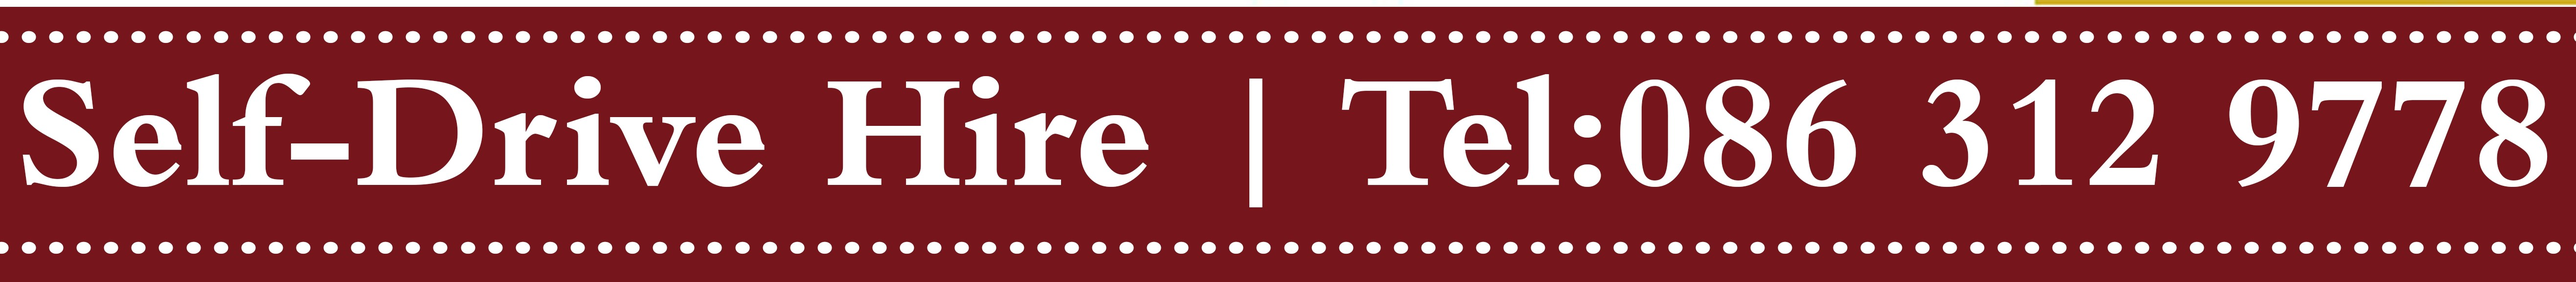
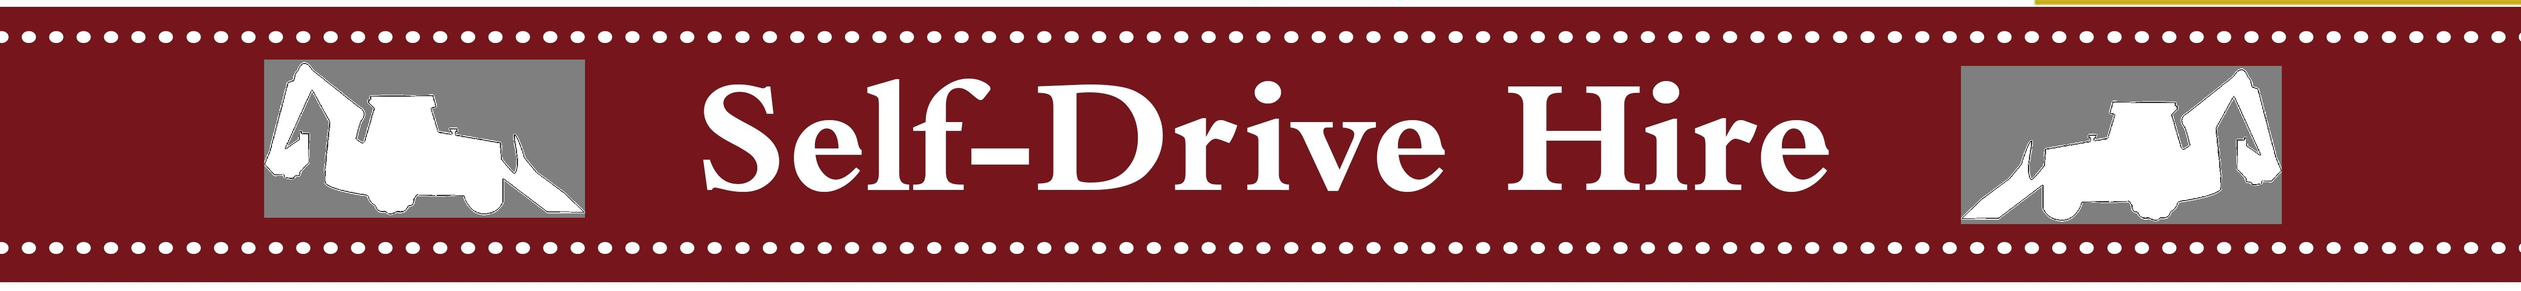
The final Commit

diff --git a/index.html b/index.html
@@ -43,8 +43,8 @@
             
             <section class="mainSection">
                 <img src="Images/oldLogo.jpg" alt="digger.jpg" class="left">
-                <p>
-                    Plant Plus Ltd. is a medium plant hire company, based in the West of Ireland but services the whole island. With several machines that can be hired, there's a machine for everything. From teleporters, to diggers, there's a machine for nearly every kind of job.
+                <p id="mainText">
+                    We provide self-drive hire for the construction industry. We stock a wide range of equipment for hire from <a href="equipment.html" class="equipmentLink">mini diggers</a> to <a href="equipment.html" class="equipmentLink">large excavators</a>, a full range of <a href="equipment.html" class="equpmentLink">dumpers</a> both swivel and straight tip, a range of vibrating <a href="equipment.html" class="equipmentLink">rollers</a> and also <a href="equipment.html" class="equipmentLink">teleporters</a>, up to 17m reach. We also provide a transportation service so it matters not where the job is, we can deliver the required equipment to site for you.
                 </p>
             </section>
             

diff --git a/about.html b/about.html
@@ -48,9 +48,8 @@
             </aside>
             
             <article class="aboutUs">
-                <img src="Images/HeadShot.jpg" alt="HeadShot.jpg" class="head">
-                <p style= "column-count: 3; column-rule: 1px double black; font-size: 20px;">
-                    This is a family run business, which was founded in 2005. The business focuses on plant hire and also contractual repair. The owner, Jarlath Malone, worked in Dublin, Ireland for several years where he studied and worked. He moved back to Mayo in 2004 and started Plant Plus Ltd. one year later. Ever since
+                <p style= "column-count: 2; column-rule: 1px double black; font-size: 40px;">
+                    This is a family run business, which was founded in 2005. The business focuses on self-drive hire. Based in the west of Ireland, we provide high quality machinery which ensures that you get reliable equipment to complete your task with confident and ease.
                 </p>
             </article>
             

diff --git a/Styles/styles.css b/Styles/styles.css
@@ -8,7 +8,7 @@ header section{
     background-repeat: no-repeat;
     background-size: cover;
     width: 100%;
-    height: 124px;
+    height: 140px;
 }
 
 section{
@@ -60,9 +60,9 @@ nav ul li:hover {
 }
 
 #headLogo {
-    margin-left: 35%;
+    margin-left: 15%;
     float: left;
-    width: 100px;
+    height: 110px;
 }
 
 main section{
@@ -213,4 +213,20 @@ table{
 
 table, th, td{
     border: 3px solid black;
+}
+header h1{
+    font-size: 110px;
+    /*
+    text-align: center;
+    */
+}
+
+.equipmentLink {
+    text-decoration: underline;
+}
+
+
+
+#mainText {
+    margin: 0px;
 }
